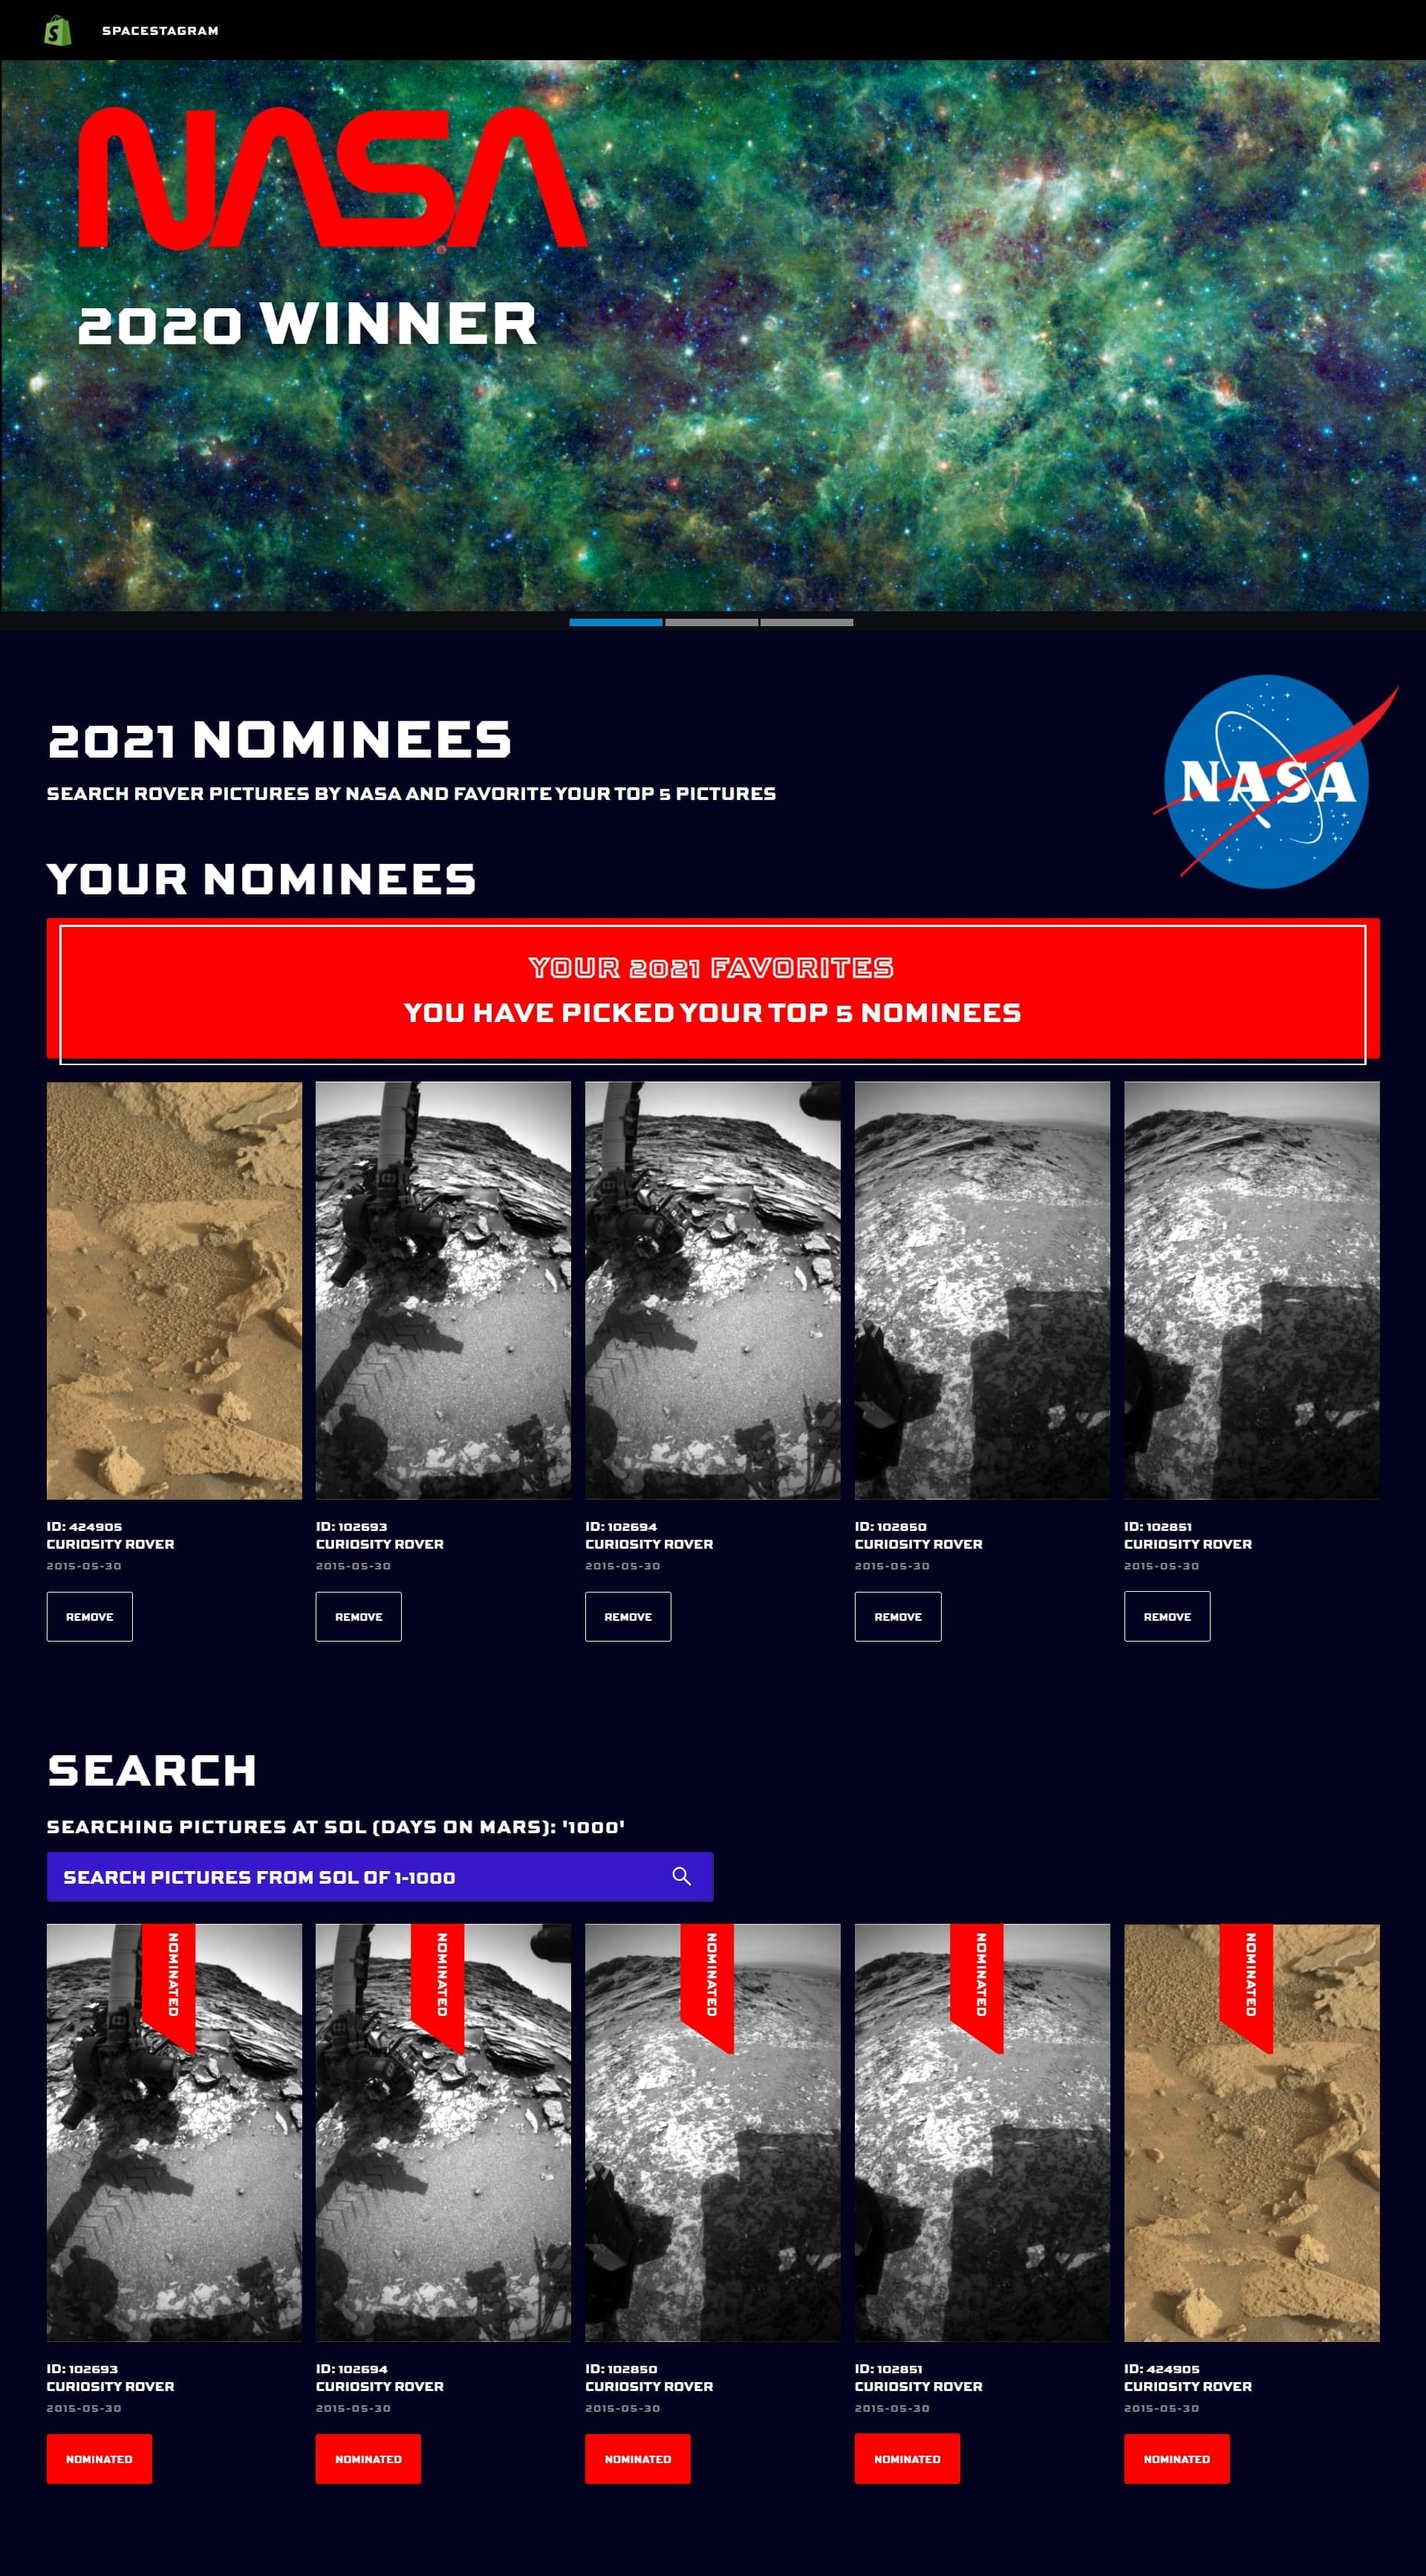
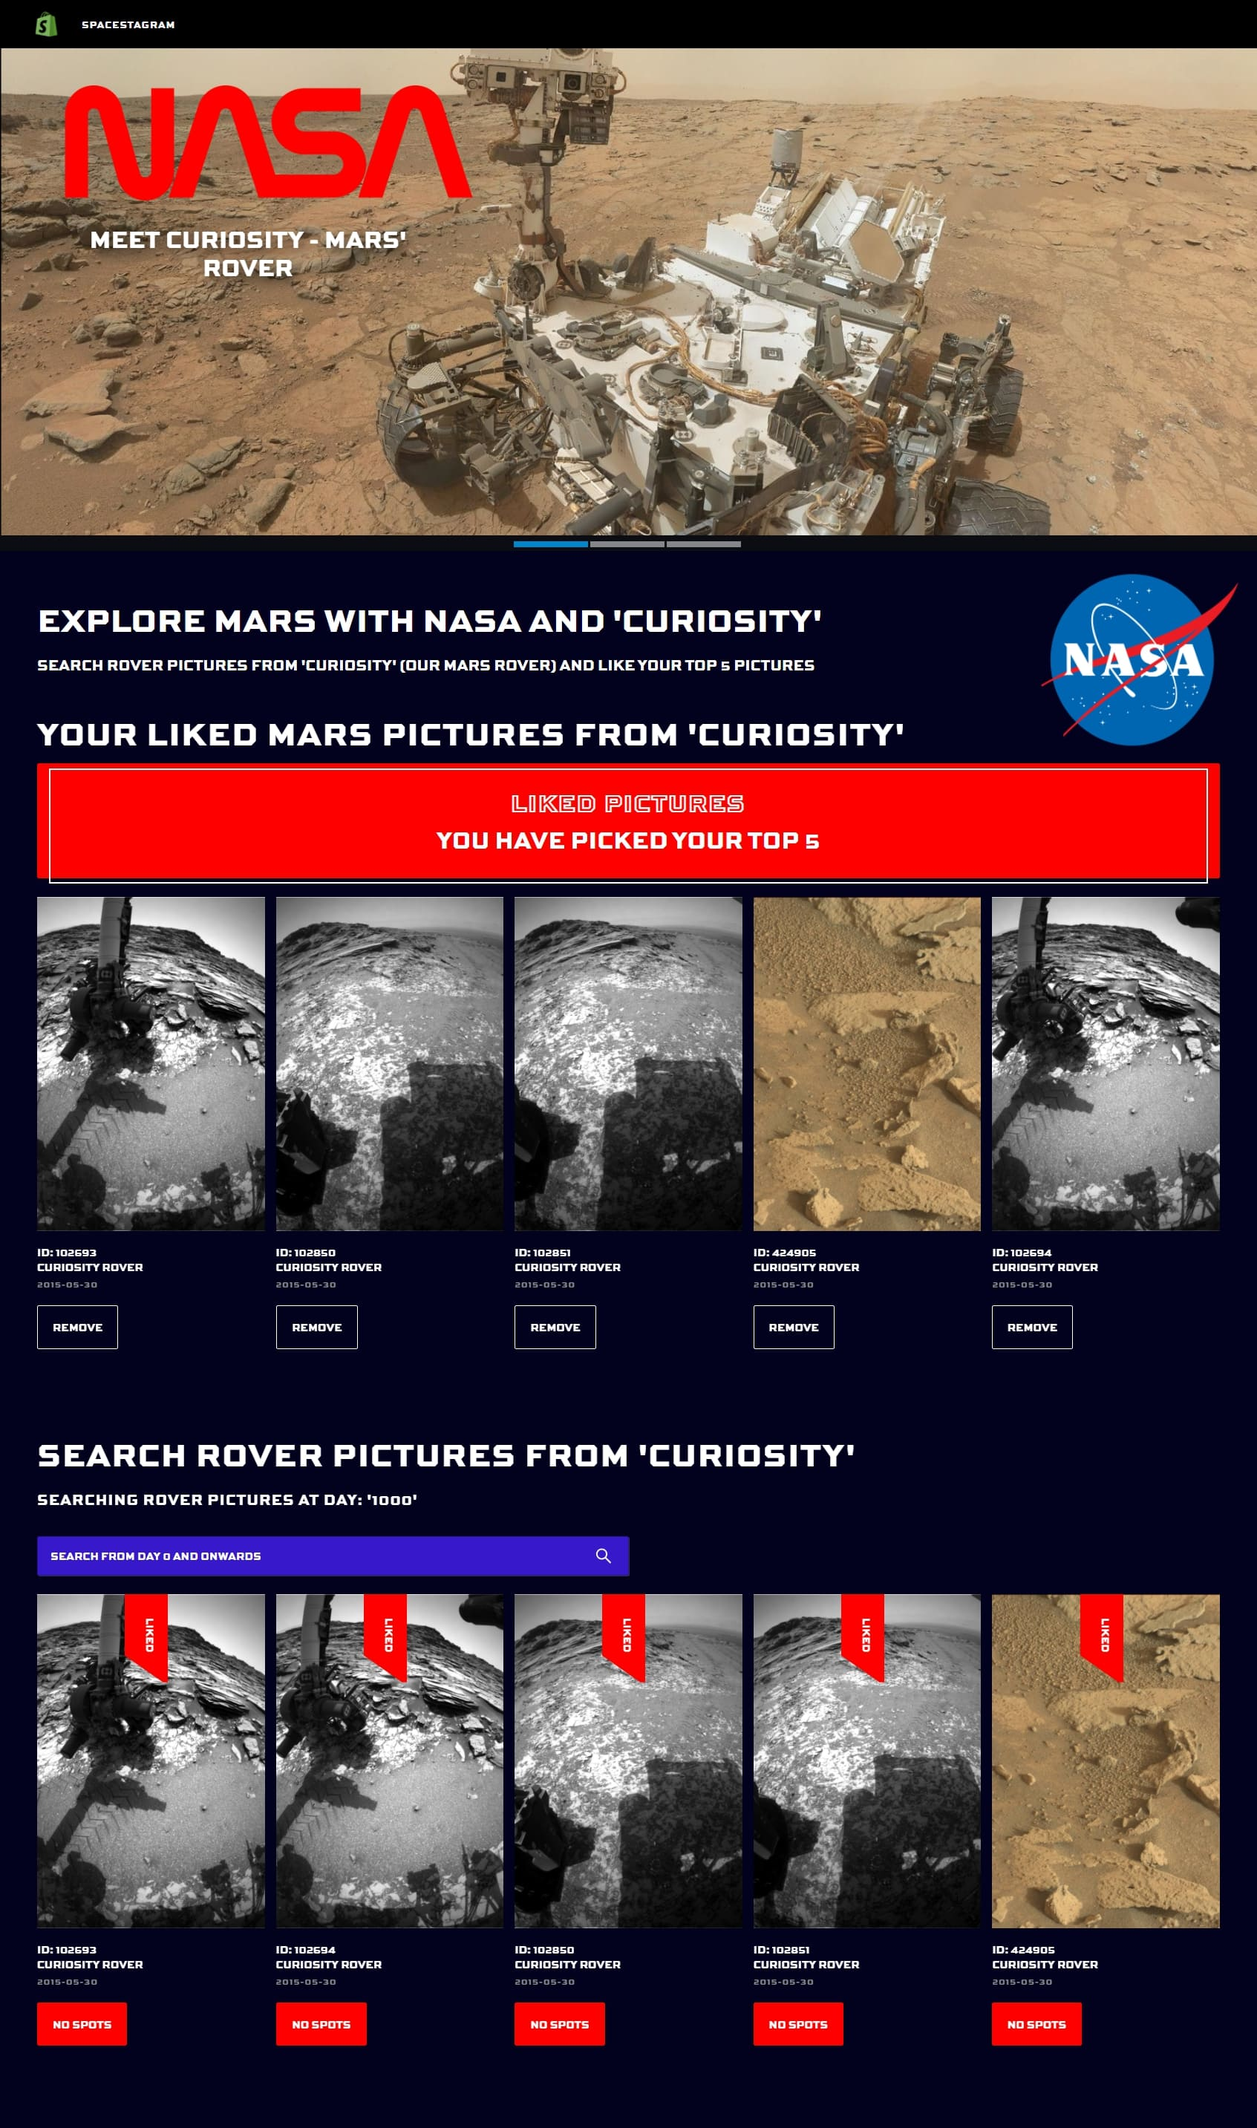
Updated README.

diff --git a/src/components/Nominees.tsx b/src/components/Nominees.tsx
@@ -231,7 +231,7 @@ const Nominee: React.FC<NomineeProps> = (props) => {
                 style={translateTitle}
                 className="search-and-nominee-title"
             >
-                Your liked Mars pictures
+                Your liked Mars pictures from 'Curiosity'
             </animated.h1>
             {bannerAnimate((animation, item) => {
                 return (

diff --git a/public/index.html b/public/index.html
@@ -24,7 +24,7 @@
       work correctly both with client-side routing and a non-root public URL.
       Learn how to configure a non-root public URL by running `npm run build`.
     -->
-        <title>Spacestagram</title>
+        <title>Spacestagram - Explore Mars</title>
     </head>
     <body>
         <noscript>You need to enable JavaScript to run this app.</noscript>

diff --git a/src/components/Header.tsx b/src/components/Header.tsx
@@ -14,7 +14,7 @@ const Header = () => {
                 src="https://cdn3.iconfinder.com/data/icons/social-media-2068/64/_shopping-512.png"
             />
             <div className="header-text-wrap">
-                <h1>Spacestagram</h1>
+                <h1>Spacestagram - Mars</h1>
             </div>
         </nav>
     );

diff --git a/src/scss/partials/pages/_home.scss b/src/scss/partials/pages/_home.scss
@@ -140,6 +140,7 @@
         background: $light-blue;
     }
     font-size: $font-size-md;
+    margin-bottom: 1rem;
 }
 
 @keyframes floatingIronMan {

diff --git a/README.md b/README.md
@@ -1,3 +1,6 @@
+#Disclaimer - This challenge is based on a previous successful admission to Shopify challenge 8 months ago. Hence certain files are 8 months old.
+https://github.com/mattfrancis888/shopify1
+
 # Shopify Challenge - Spacestagram: Image-sharing from the final frontier
 
 For the purposes of this project, Shopify is extending our mission to Make Commerce Better for Everyone to include the whole entire universe. Please build us an app to help share photos from one of NASA’s image APIs.
@@ -35,6 +38,7 @@ We'd like a simple to use interface that makes it easy to:
 ## What It Looks Like
 
 <img src="readmeImg/nasa_page.jpg"/>
+<img src="readmeImg/nasa_page_2.jpg"/>
 
 # Getting Started
 
